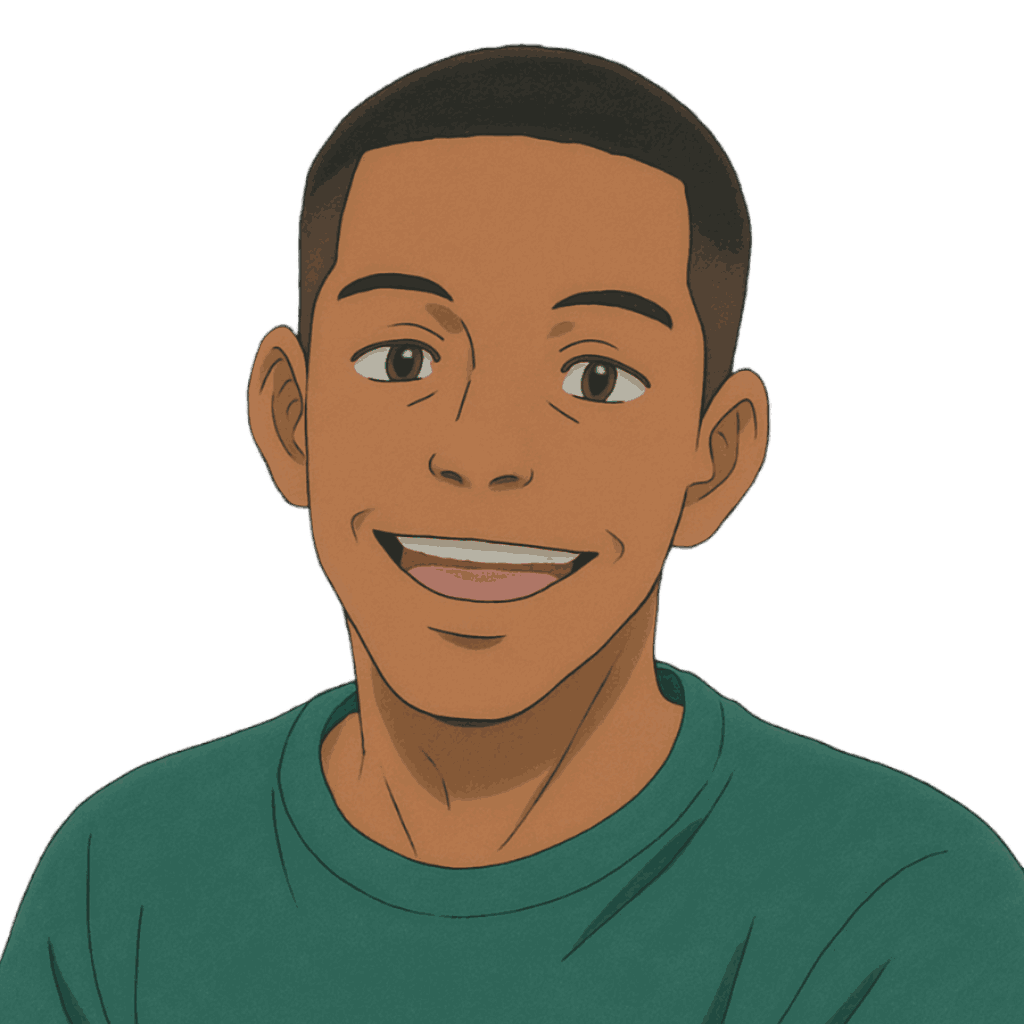
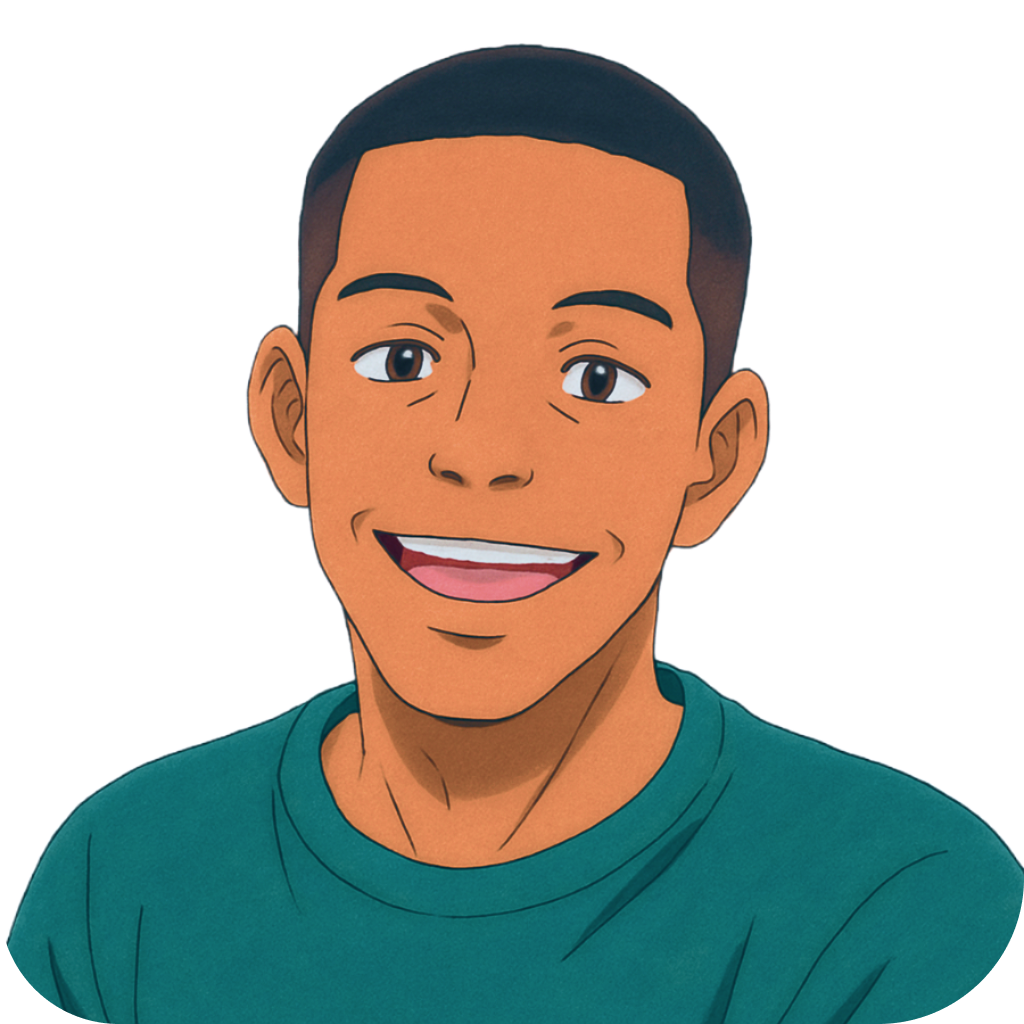
style: :art: ajuste na responsividade e troca de foto do profile
- Ajustada responsividade em diversos componentes
- Trocada foto do profile na pasta public/assets

diff --git a/new-portfolio/src/app/components/Background/Scene3D.tsx b/new-portfolio/src/app/components/Background/Scene3D.tsx
@@ -5,7 +5,7 @@ import Image from 'next/image';
 import RedeSocial from '../Home/Emphasis/RedeSocial/RedeSocial';
 import Scene3D from './Scene3D.module.css';
 
-import profile from '../../../../public/assets/profile(2).png';
+import profile from '../../../../public/assets/profile.png';
 import react from '../../../../public/assets/react.png';
 import html from '../../../../public/assets/html.png';
 import css from '../../../../public/assets/css3.png';
@@ -86,6 +86,7 @@ export default function OrbitLogos() {
         return (
           <motion.div
             key={index}
+            className={Scene3D.logoContainer}
             style={{
               width: 55,
               height: 50,
@@ -96,7 +97,7 @@ export default function OrbitLogos() {
               transformStyle: 'preserve-3d',
             }}
           >
-            <Image
+            <Image className={Scene3D.logo}
               src={logo}
               alt={`Logo ${logo}`}
               width={50}

diff --git a/new-portfolio/src/app/components/Background/Scene3D.module.css b/new-portfolio/src/app/components/Background/Scene3D.module.css
@@ -30,16 +30,45 @@
 @media screen and (max-width:1568px) {
 
   .areaContainer {
-    position: relative;  
     inset: 0 0 0 -9rem;
     width: 900px;
   }
 }
+
 @media screen and (max-width:1000px) {
-  .areaContainer {
-    position: relative;  
-    inset: 0 0 0 -9rem;
+  .areaContainer { 
     width: 600px;
-	height: 20vh;
+	  height: 30vh;
   }
+}
+
+@media screen and (max-width:800px) {
+  .areaContainer { 
+    inset: 0 0 0 -7rem;
+    width: 550px;
+    perspective: 1000;  
+  }
+}  
+
+@media screen and (max-width:600px) {
+  .areaContainer { 
+    width: 500px;
+  }
+
+  .logoContainer {     
+    width: 100%;
+    height: 40%;
+  }
+  .logo {
+    width: 50%;
+
+  }
+}
+
+@media screen and (max-width:400px) {
+  .areaContainer { 
+     inset: 0 0 0 -5rem;
+     width: 100%;
+  }
+
 }
